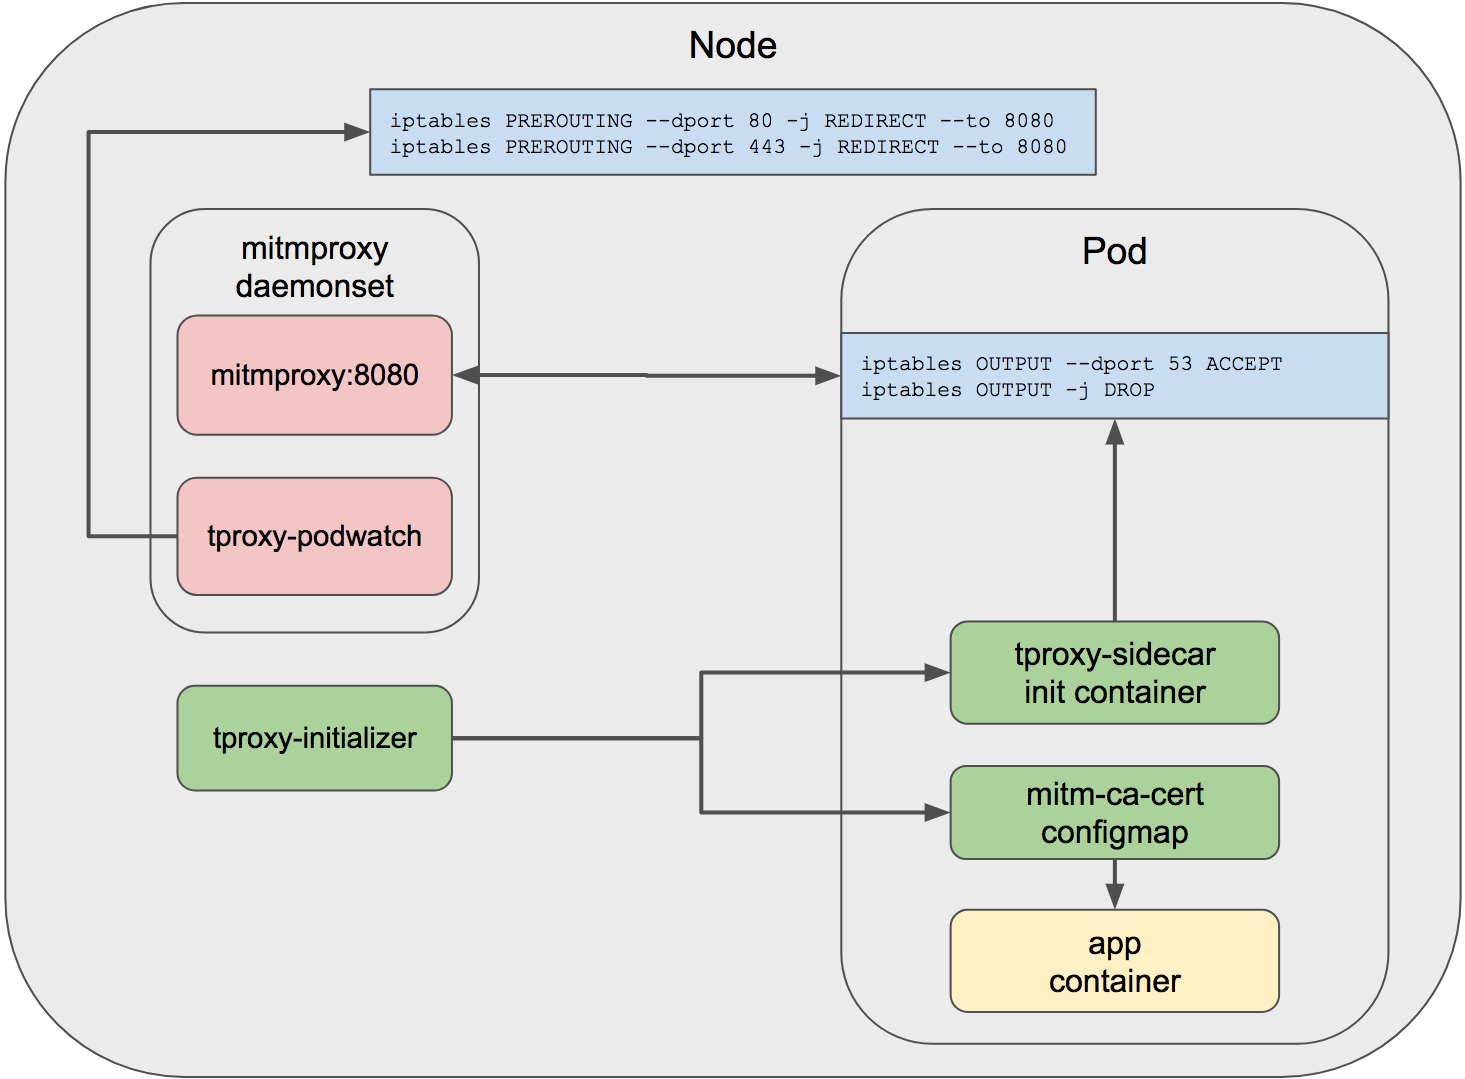
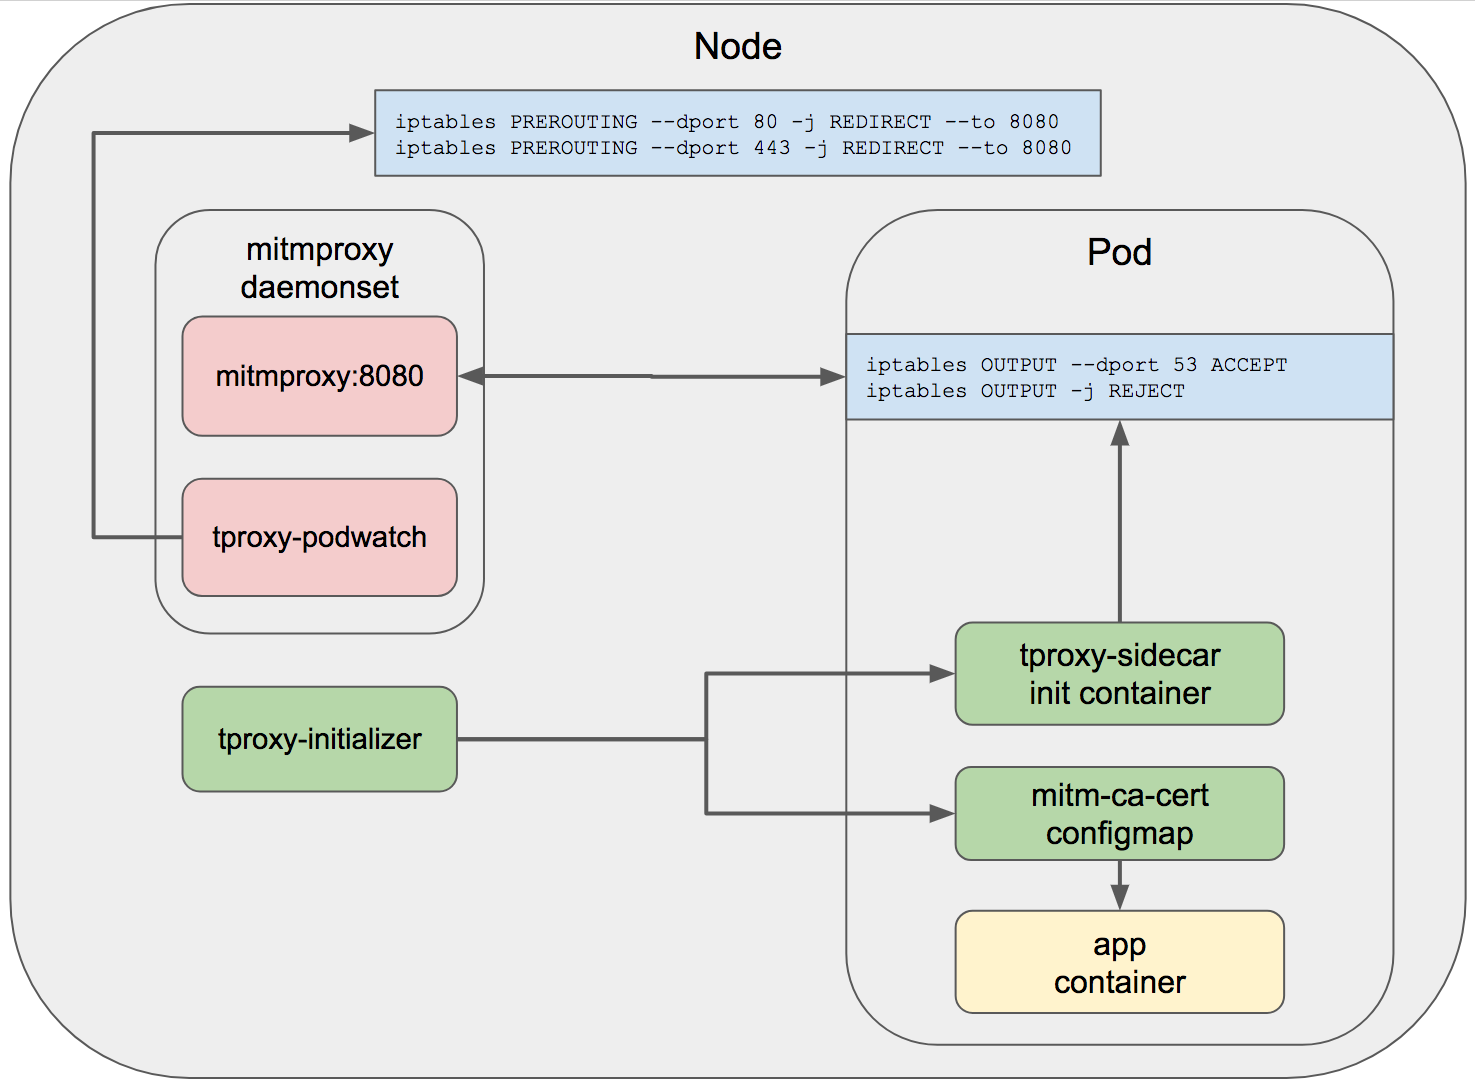
update to templates

diff --git a/tproxy-podwatch/main.go b/tproxy-podwatch/main.go
@@ -1,19 +1,3 @@
-/*
-Copyright 2017 The Kubernetes Authors.
-
-Licensed under the Apache License, Version 2.0 (the "License");
-you may not use this file except in compliance with the License.
-You may obtain a copy of the License at
-
-    http://www.apache.org/licenses/LICENSE-2.0
-
-Unless required by applicable law or agreed to in writing, software
-distributed under the License is distributed on an "AS IS" BASIS,
-WITHOUT WARRANTIES OR CONDITIONS OF ANY KIND, either express or implied.
-See the License for the specific language governing permissions and
-limitations under the License.
-*/
-
 package main
 
 import (
@@ -42,7 +26,12 @@ import (
 
 // The annotation to look for
 var annotation string
+
+// The IP of the host this is running on.
 var thisIP string
+
+// The port number to redirect traffic to.
+var hostPortString string
 
 type Controller struct {
 	indexer  cache.Indexer
@@ -248,13 +237,13 @@ func addFirewall(ip, comment string) error {
 	// Using "-w" arg to prevent concurrency issues in iptables.
 
 	// Port 443
-	cmd := exec.Command("iptables", "-w", "-t", "nat", "-A", "PREROUTING", "-s", ip, "-p", "tcp", "--dport", "443", "-j", "REDIRECT", "-m", "comment", "--comment", comment, "--to", "8080")
+	cmd := exec.Command("iptables", "-w", "-t", "nat", "-A", "PREROUTING", "-s", ip, "-p", "tcp", "--dport", "443", "-j", "REDIRECT", "-m", "comment", "--comment", comment, "--to", hostPortString)
 	if err := cmd.Run(); err != nil {
 		return err
 	}
 
 	// Port 80
-	cmd = exec.Command("iptables", "-w", "-t", "nat", "-A", "PREROUTING", "-s", ip, "-p", "tcp", "--dport", "80", "-j", "REDIRECT", "-m", "comment", "--comment", comment, "--to", "8080")
+	cmd = exec.Command("iptables", "-w", "-t", "nat", "-A", "PREROUTING", "-s", ip, "-p", "tcp", "--dport", "80", "-j", "REDIRECT", "-m", "comment", "--comment", comment, "--to", hostPortString)
 	if err := cmd.Run(); err != nil {
 		return err
 	}
@@ -277,10 +266,14 @@ func removeFirewall(index int) error {
 
 func main() {
 	var namespace string
+	var hostPort int
 
 	flag.StringVar(&namespace, "namespace", "default", "the namespace to monitor")
 	flag.StringVar(&annotation, "annotation", "initializer.kubernetes.io/tproxy", "the pod annotation to match on")
+	flag.IntVar(&hostPort, "hostPort", 8080, "The host port to redirect http/s traffic to.")
 	flag.Parse()
+
+	hostPortString = strconv.Itoa(hostPort)
 
 	log.Println("Starting the Kubernetes pod watcher...")
 

diff --git a/README.md b/README.md
@@ -15,21 +15,43 @@ Technology used:
 - [Kubernetes Helm](https://github.com/kubernetes/helm)
 - [Google Container Engine](https://cloud.google.com/container-engine/)
 
-Special thanks to the [Kubernetes Initializer Tutorial](https://github.com/kelseyhightower/kubernetes-initializer-tutorial) by Kelsey Hightower for the Go example.
-
 **Figure 1.** *tproxy diagram*
 
 ![diagram](./diagram.png)
 
 ## Example
 
+### Mitmproxy Script
+
+This example uses the mitmproxy python script shown below to filter traffic to a specific GCS bucket. The script is installed via the [configmap resource](./mitmpoxy/templates/configmap-mitmproxy.yaml) and parameters are passed using Helm values.
+
+```python
+from mitmproxy import http
+import re
+import os
+
+ALLOW_BUCKET_NAME = "{{ .Values.scripts.gcs_bucket_name }}"
+
+RE_BUCKET = re.compile(r'https://storage.googleapis.com/%s/.*' % ALLOW_BUCKET_NAME)
+
+def request(flow: http.HTTPFlow) -> None:
+    if not RE_BUCKET.match(flow.request.pretty_url):
+        flow.response = http.HTTPResponse.make(
+            418,
+            b"Access Denied by Administrator",
+            {"Content-Type": "text/html"}
+        )
+```
+
+Notice that the URL is HTTPS, clients accessing this resource will need to have the [mitmproxy CA cert installed](http://docs.mitmproxy.org/en/stable/certinstall.html) for the connection to be trusted. The `tproxy-initializer` injects this CA into the container filesystem at runtime so it's automatically available and trusted.
+
 ### Create alpha GKE cluster
 
 As of K8S 1.7 the initializers feature is alpha and requires an alpha GKE cluster.
 
-Create cluster with latest Kubernetes version:
+Create cluster with latest Kubernetes version and alpha features enabled:
 
-```
+```sh
 VERSION=$(gcloud container get-server-config --format='get(validMasterVersions[0])')
 
 gcloud container clusters create dev \
@@ -40,53 +62,40 @@ gcloud container clusters create dev \
   --no-enable-legacy-authorization
 ```
 
-### Build the container images
-
-Use [Container Builder](https://cloud.google.com/container-builder/docs/) to build the container images. This will place the images in your current project.
-
-```
-cd tproxy-initializer && ./build-container && cd -
-
-cd tproxy-podwatch && ./build-container && cd -
-
-cd tproxy-sidecar && ./build-container && cd -
-```
-
 ### Deploy tproxy Helm chart
 
-Gen certs:
+First, generate the certificates used by mitmproxy, they will be included in the Helm release.
 
-```
+```sh
 docker run -it --rm -v ${PWD}/mitmproxy/certs/:/home/mitmproxy/.mitmproxy mitmproxy/mitmproxy
 ```
 
-Create service account for Helm
+Create service account for Helm:
 
-```
+```sh
 kubectl create serviceaccount --namespace kube-system tiller
 kubectl create clusterrolebinding tiller-cluster-rule --clusterrole=cluster-admin --serviceaccount=kube-system:tiller
 ```
 
 Initialize Helm:
 
-```
+```sh
 helm init --service-account=tiller
 ```
 
 Install the chart:
 
-```
-PROJECT_ID=$(gcloud config get-value project)
-
-helm install -n tproxy --set images.tproxy_registry=${PROJECT_ID} mitmproxy
+```sh
+helm install -n tproxy mitmproxy
 ```
 
 ### Deploy sample apps
 
-Run the sample apps to demonstrate using and not using the annotation to trigger the initializer. There are variants for debian and centos to show how the mitmproxy ca certs are mounted per distro.
+Run the sample apps to demonstrate using and not using the annotation to trigger the initializer. There are variants for Debian and CentOS to show how the mitmproxy ca certs are mounted per distro.
 
 ```
-kubectl create -f example-app/
+kubectl create -f example-app/deployment-debian.yaml
+kubectl create -f example-app/deployment-debian-locked.yaml
 ```
 
 Here is the YAML for the deployment with the annotation:
@@ -102,117 +111,104 @@ spec:
   replicas: 1
   selector:
     matchLabels:
-      run: app
+      app: debian-app
   template:
     metadata:
       labels:
-        run: app
-        variant: debian-locked
+        app: debian-app
+        variant: locked
     spec:
       containers:
         - name: app
           image: danisla/example-app:debian
-          imagePullPolicy: Always
 ```
 
 ### Test output
 
 Pod without tproxy:
 
-```
-kubectl logs $(kubectl get pods --selector=variant=debian -o=jsonpath={.items..metadata.name}) -c app
+```sh
+kubectl logs $(kubectl get pods --selector=app=debian-app,variant=unlocked -o=jsonpath={.items..metadata.name})
 ```
 
-> Traffic to https endpoints is unrestricted.
+```
+https://www.google.com: 200
+https://storage.googleapis.com/solutions-public-assets/: 200
+PING www.google.com (209.85.200.105): 56 data bytes
+64 bytes from 209.85.200.105: icmp_seq=0 ttl=52 time=0.758 ms
+```
+
+Notice that traffic to https endpoints is unrestricted and returning status code 200. The ping also succeeds.
 
 Pod with tproxy:
 
-```
-kubectl logs $(kubectl get pods --selector=variant=debian-locked -o=jsonpath={.items..metadata.name}) -c app
-```
-
-> All http/s traffic is proxied through mitmproxy, only the route to the google storage bucket is permitted per the mitmproxy python script. All other egress traffic is blocked.
-
-## Example Without Initializer
-
-If you do not want to use the alpha initializer feature, you can still achieve the same sidecar behavior by adding the init container to the pod spec like the example below. You do still need a 1.7.x cluster because the sidecar uses the Downward API to reflect the node host IP into the environment and the [status.hostIP field is new to 1.7](https://github.com/kubernetes/kubernetes/issues/24657).
-
-Make sure to pass the `--set tproxy.useInitializer=false` arg to the `helm install` command to skip installation of the initializer.
-
-```yaml
-apiVersion: extensions/v1beta1
-kind: Deployment
-metadata:
-  name: debian-app-locked
-spec:
-  replicas: 1
-  selector:
-    matchLabels:
-      run: app
-  template:
-    metadata:
-      annotations:
-        # The podspec annotation is still needed by the podwatch controller.
-        "initializer.kubernetes.io/tproxy": "true"
-      labels:
-        run: app
-        variant: debian-locked
-    spec:
-      initContainers:
-        - name: tproxy
-          image: danisla/tproxy-sidecar:0.0.1
-          imagePullPolicy: IfNotPresent
-          securityContext:
-            privileged: true
-          env:
-            - name: HOST_IP
-              valueFrom:
-                fieldRef:
-                  fieldPath: status.hostIP
-          resources:
-            limits:
-              cpu: 500m
-              memory: 128Mi
-            requests:
-              cpu: 100m
-              memory: 64Mi
-      containers:
-        - name: app
-          image: danisla/example-app:debian
-          imagePullPolicy: Always
-          volumeMounts:
-            - name: ca-certs-debian
-              mountPath: /etc/ssl/certs/
-            - name: ca-certs-debian
-              # Adding the cert to the /extra dir preserves it if update-ca-certificates is run after init.
-              mountPath: /usr/local/share/ca-certificates/extra/
-      volumes:
-        - name: ca-certs-debian
-          configMap:
-              name: root-certs
-              items:
-                - key: root-certs.crt
-                  path: ca-certificates.crt
+```sh
+kubectl logs $(kubectl get pods --selector=app=debian-app,variant=locked -o=jsonpath={.items..metadata.name})
 ```
 
-The above spec also reflects a complete view of the deployment after it is modified by the initializer.
+```
+https://www.google.com: 418
+https://storage.googleapis.com/solutions-public-assets/: 200
+PING www.google.com (209.85.200.147): 56 data bytes
+ping: sending packet: Operation not permitted
+```
 
-## Cleanup
+Notice that all http/s traffic is proxied through mitmproxy, only the route to the google storage bucket is permitted per the mitmproxy python script. All other egress traffic is rejected.
+
+Inspecting the logs from the mitmproxy pod show the intercepted requests and responses. To get the logs, first identify which node the pod is running on, then get logs for the tproxy instance on that node.
+
+```sh
+kubectl logs $(kubectl get pods -o wide | awk '/mitmproxy.*'$(kubectl get pods --selector=app=debian-app,variant=locked -o=jsonpath={.items..spec.nodeName})'/ {print $1}') -c mitmproxy-tproxy
+```
+
+```
+10.12.1.41:37380: clientconnect
+10.12.1.41:37380: GET https://www.google.com/ HTTP/2.0
+               << 418 I'm a teapot 30b
+10.12.1.41:37380: clientdisconnect
+10.12.1.41:36496: clientconnect
+Streaming response from 64.233.191.128
+10.12.1.41:36496: GET https://storage.googleapis.com/solutions-public-assets/adtech/dfp_networkimpressions.py HTTP/2.0
+               << 200  (content missing)
+10.12.1.41:36496: clientdisconnect
+```
+
+### Cleanup
 
 Delete the sample apps:
 
-```
+```sh
 kubectl delete -f exmaple-apps/
 ```
 
 Delete the tproxy helm release:
 
-```
+```sh
 helm delete --purge tproxy
 ```
 
 Delete the GKE cluster:
 
-```
+```sh
 gcloud container clusters delete dev
+```
+
+# Building the Images
+
+Use [Container Builder](https://cloud.google.com/container-builder/docs/) to build the container images. This will place the images in your current project.
+
+```sh
+cd tproxy-initializer && ./build-container && cd -
+
+cd tproxy-podwatch && ./build-container && cd -
+
+cd tproxy-sidecar && ./build-container && cd -
+```
+
+You can use your custom images when installing the chart by setting the `images.tproxy_registry` value.
+
+```sh
+PROJECT_ID=$(gcloud config get-value project)
+
+helm install -n tproxy --set images.tproxy_registry=${PROJECT_ID} mitmproxy
 ```

diff --git a/tproxy-sidecar/README.md b/tproxy-sidecar/README.md
@@ -3,3 +3,5 @@
 Sidecar run in pod to add iptables rules to block egress traffic for the pod.
 
 Must be run with `pod.spec.containers.securityContext.privileged: true`.
+
+If the `HOST_IP` environment variable is present, an additional iptables rule will be added to allow traffic to `HOST_IP:1080`. This is use to pass traffic to a mitmproxy instance running in standard mode listening the node host port 1080.
